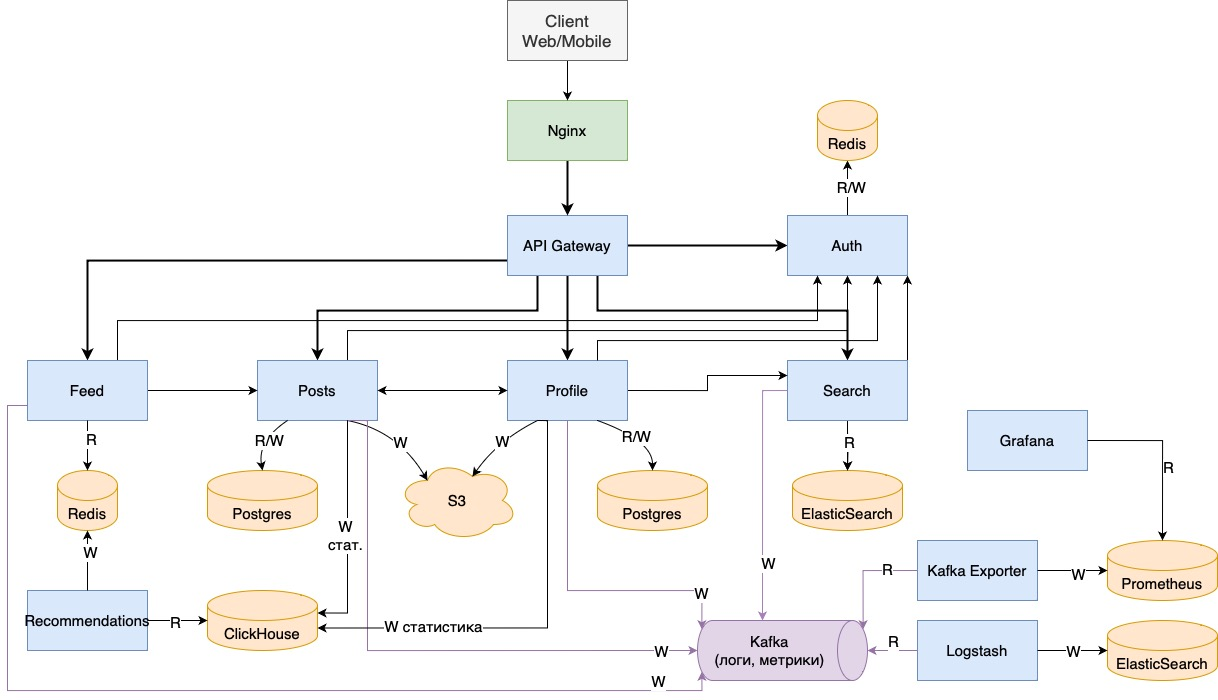
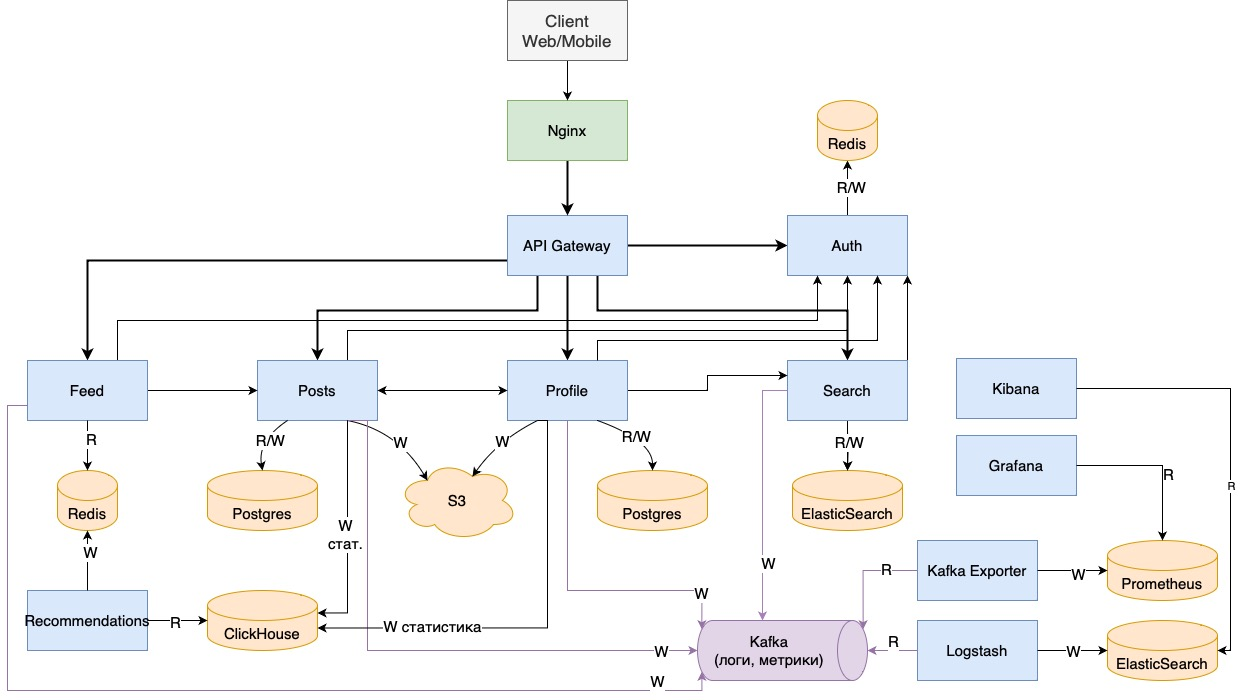
some fixes

diff --git a/README.md b/README.md
@@ -499,6 +499,14 @@ TF/IDF, деревья решений и нейронные сети.
 
 ## 10. Схема проекта <a name="10"></a>
 ![Схема проекта](img/project.jpg)
+- API Gateway отвечает за роутинг запросов между сервисами. В некоторых сценариях может выступать в роли API-Composition
+- Auth - сервис аутентификации и авторизации, предоставляет другим сервисам информацию о доступе пользователя к системе, управляет сессиями, которые хранятся в Redis.
+- Search - сервис поиска пользователей, связан с сервисом Profile, чтобы собирать карточки пользователей, а также получает ниформацию о новых, которую записывает в ElasticSearch.
+- Profile - сервис профилей пользователей
+- Posts - сервис постов
+- Feed - сервис ленты. Читает из Redis сгенерированные рекомендации и собирает информацию о постах, обращаясь в сервис Posts.
+- Recommendations - сервис генерации ленты. Читает из clickhouse статистику пользователей, строит рекомендации и сохраняет в Redis.
+- Все сервисы пишут логи и метрики в Kafka, из которой потом они сохраняются в Elastic Search и Prometheus соответственно.
 
 ## 11. Список серверов <a name="11"></a>
 
